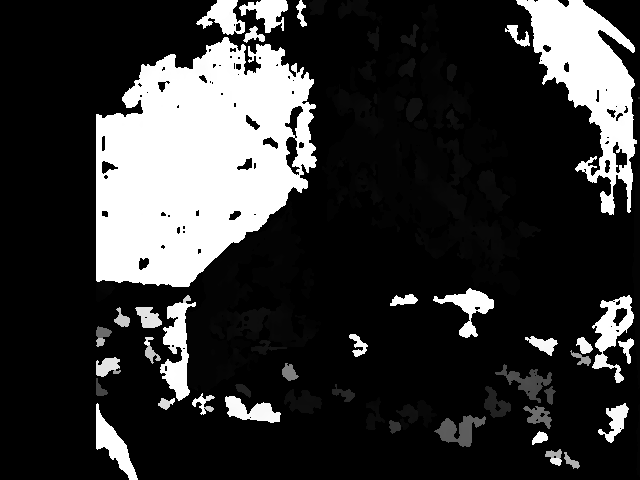
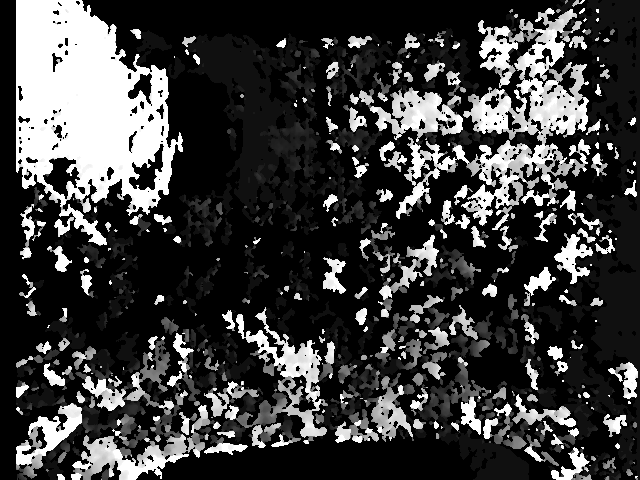
Stereo calibration updates

diff --git a/calibration/calibrator.cc b/calibration/calibrator.cc
@@ -4,6 +4,7 @@
 #include "glog/logging.h"
 #include "opencv2/imgproc.hpp"
 #include "proto_utils.h"
+#include "status_macros.h"
 
 namespace sfx {
 
@@ -31,26 +32,22 @@ static std::vector<std::vector<cv::Point3f>> GenerateObjectPoints(
   return result;
 }
 
-absl::StatusOr<IntrinsicCalibration> CalibrateFromMat(const cv::Mat& image) {
-  std::vector<cv::Point2f> corners;
-  if (!ChessboardFound(image, corners)) {
-    return absl::InternalError("Chessboard not found.");
-  }
-
-  std::vector<std::vector<cv::Point2f>> image_points;
-
-  cv::cornerSubPix(
-      image, corners, cv::Size(11, 11), cv::Size(-1, -1),
-      cv::TermCriteria(cv::TermCriteria::EPS + cv::TermCriteria::MAX_ITER, 30,
-                       0.1));
-  image_points.push_back(corners);
+absl::StatusOr<IntrinsicCalibration> CalibrateFromInput(
+    const std::vector<CalibrationInput>& input) {
+  CHECK(!input.empty());
+  const auto image_size = cv::Size(input[0].image.size());
 
   IntrinsicCalibration intrinsic_calibration;
   cv::Mat camera_matrix;
   cv::Mat distortions;
 
+  std::vector<std::vector<cv::Point2f>> image_points;
+  for (const auto& data : input) {
+    image_points.emplace_back(data.corners);
+  }
+
   const double reprojection_error = cv::calibrateCamera(
-      GenerateObjectPoints(), image_points, image.size(),
+      GenerateObjectPoints(input.size()), image_points, image_size,
       intrinsic_calibration.camera_matrix,
       intrinsic_calibration.distortion_params, cv::noArray(), cv::noArray());
   intrinsic_calibration.reprojection_error = reprojection_error;
@@ -65,29 +62,31 @@ absl::StatusOr<proto::IntrinsicCalibration> CalibrateFromVideo(
         absl::StrFormat("Failed to open camera: '%i'.", camera_id));
   }
 
-  constexpr int32_t kNumberOfFrames = 10;
+  constexpr int32_t kNumberOfFrames = 50;
+  auto valid_frames = std::vector<CalibrationInput>(kNumberOfFrames);
   int32_t number_of_frames = 0;
   cv::Mat frame;
-  absl::StatusOr<IntrinsicCalibration> intrinsic_calibration;
 
-  while (capture.read(frame) && number_of_frames < kNumberOfFrames &&
-         !intrinsic_calibration.ok()) {
+  // Get valid image points
+  while (capture.read(frame) && number_of_frames < kNumberOfFrames) {
     cv::Mat gray;
     cv::cvtColor(frame, gray, cv::COLOR_BGR2GRAY);
-    intrinsic_calibration = CalibrateFromMat(gray);
-    ++number_of_frames;
+    std::vector<cv::Point2f> image_points;
+    if (ChessboardFound(gray, image_points)) {
+      CalibrationInput input{.image = gray, .corners = image_points};
+      valid_frames[number_of_frames] = input;
+      ++number_of_frames;
+    }
   }
-  if (!intrinsic_calibration.ok()) {
-    return absl::InternalError(absl::StrFormat(
-        "Could not calibrate after %i frames - %s.", kNumberOfFrames,
-        intrinsic_calibration.status().message()));
-  }
-
-  return (ConvertIntrinsicCalibrationToProto(intrinsic_calibration.value()));
+  ASSIGN_OR_RETURN(auto intrinsic_calibration,
+                   CalibrateFromInput(valid_frames));
+  return (ConvertIntrinsicCalibrationToProto(intrinsic_calibration));
 }
 
-absl::StatusOr<StereoCalibration> StereoCalibrateFromMat(
-    const std::vector<CalibrationPairs>& pairs) {
+absl::StatusOr<StereoCalibration> CalibrateFromPairs(
+    const std::vector<CalibrationPairs>& pairs,
+    const IntrinsicCalibration& left_intrinsic,
+    const IntrinsicCalibration& right_intrinsic) {
   CHECK(!pairs.empty());
   const auto image_size = cv::Size(pairs[0].left_frame.size());
 
@@ -101,11 +100,15 @@ absl::StatusOr<StereoCalibration> StereoCalibrateFromMat(
   const std::vector<std::vector<cv::Point3f>> object_points =
       GenerateObjectPoints(pairs.size());
 
-  // The default is cv::CALIB_FIX_INTRINSIC, which is NOT we want
-  // It tells to compute intrinsic from scratch.
-  constexpr int32_t flags = 0;
+  // Copy intrinsic so that cv::StereoCalibrate can fix them.
+  constexpr int32_t stereo_flags = cv::CALIB_FIX_INTRINSIC;
 
   StereoCalibration stereo_calibration;
+  stereo_calibration.left_camera_matrix = left_intrinsic.camera_matrix;
+  stereo_calibration.left_distortion_params = left_intrinsic.distortion_params;
+  stereo_calibration.right_camera_matrix = right_intrinsic.camera_matrix;
+  stereo_calibration.right_distortion_params =
+      right_intrinsic.distortion_params;
   stereo_calibration.reprojection_error = cv::stereoCalibrate(
       object_points, left_image_points, right_image_points,
       stereo_calibration.left_camera_matrix,
@@ -113,7 +116,7 @@ absl::StatusOr<StereoCalibration> StereoCalibrateFromMat(
       stereo_calibration.right_camera_matrix,
       stereo_calibration.right_distortion_params, image_size,
       stereo_calibration.R, stereo_calibration.T, stereo_calibration.E,
-      stereo_calibration.F, flags);
+      stereo_calibration.F, stereo_flags);
 
   if (stereo_calibration.left_camera_matrix.at<double>(0, 0) == 1.) {
     return absl::InternalError("No intrinsic calibration found.");
@@ -122,7 +125,9 @@ absl::StatusOr<StereoCalibration> StereoCalibrateFromMat(
 }
 
 absl::StatusOr<proto::StereoCalibration> StereoCalibrationFromVideo(
-    int32_t left_camera_id, int32_t right_camera_id) {
+    int32_t left_camera_id, int32_t right_camera_id,
+    const IntrinsicCalibration& left_intrinsic,
+    const IntrinsicCalibration& right_intrinsic) {
   cv::VideoCapture left_cam(left_camera_id);
   if (!left_cam.isOpened()) {
     return absl::NotFoundError(
@@ -136,7 +141,7 @@ absl::StatusOr<proto::StereoCalibration> StereoCalibrationFromVideo(
   }
 
   // Get valid frames in both cameras
-  constexpr int32_t kNumberOfFrames = 50;
+  constexpr int32_t kNumberOfFrames = 1;
   auto valid_frames = std::vector<CalibrationPairs>(kNumberOfFrames);
 
   int32_t number_of_frames = 0;
@@ -166,7 +171,8 @@ absl::StatusOr<proto::StereoCalibration> StereoCalibrationFromVideo(
       ++number_of_frames;
     }
   }
-  stereo_calibration = StereoCalibrateFromMat(valid_frames);
+  stereo_calibration =
+      CalibrateFromPairs(valid_frames, left_intrinsic, right_intrinsic);
   if (!stereo_calibration.ok()) {
     return absl::InternalError(absl::StrFormat(
         "Could not calibrate - %s.", stereo_calibration.status().message()));

diff --git a/stereo_vision/rectification.cc b/stereo_vision/rectification.cc
@@ -7,28 +7,20 @@ namespace sfx {
 absl::Status Rectify(const cv::Mat& left_image_input,
                      const cv::Mat& right_image_input,
                      const StereoCalibration& stereo_calibration) {
+  // Left and right images are mutable and will be remaped.
   cv::Mat left_image = left_image_input;
   cv::Mat right_image = right_image_input;
   cv::Mat R1;
   cv::Mat R2;
   cv::Mat P1;
   cv::Mat P2;
-  if (left_image.size() != right_image.size()) {
-    if (left_image.size() != right_image.size()) {
-      cv::resize(right_image, right_image, left_image.size(),
-                 /*fx=*/0, /*fy=*/0, cv::INTER_LINEAR);
-    }
-  }
   const auto image_size = cv::Size(left_image.size());
-
   cv::stereoRectify(stereo_calibration.left_camera_matrix,
                     stereo_calibration.left_distortion_params,
                     stereo_calibration.right_camera_matrix,
                     stereo_calibration.right_distortion_params, image_size,
                     stereo_calibration.R, stereo_calibration.T, R1, R2, P1, P2,
-                    cv::noArray(), 0);
-  const bool is_vertical =
-      std::abs(P2.at<double>(1, 3)) > std::abs(P2.at<double>(0, 3));
+                    /*Q=*/cv::noArray());
 
   // Precompute maps for cv::remap()
   cv::Mat map11;
@@ -57,13 +49,12 @@ absl::Status Rectify(const cv::Mat& left_image_input,
 
   // Get disparity
   cv::Ptr<cv::StereoSGBM> stereo = cv::StereoSGBM::create(
-    0,                   // minDisparity
-    96,                  // numDisparities
-    11,                  // blockSize
-    8 * 11 * 11,         // P1
-    32 * 11 * 11,        // P2
-    1, 10, 10, 100, 32,
-    cv::StereoSGBM::MODE_HH);
+      0,           // minDisparity
+      16,          // numDisparities - must be divisible by 16; ~2x expected
+      5,           // blockSize - smaller for low-baseline
+      8 * 5 * 5,   // P1
+      32 * 5 * 5,  // P2
+      1, 10, 10, 100, 32, cv::StereoSGBM::MODE_HH);
   cv::Mat disparity;
   stereo->compute(left_image_rectified, right_image_rectified, disparity);
   cv::Mat visual_disparity;

diff --git a/calibration/stereo_calibrator_cli.cc b/calibration/stereo_calibrator_cli.cc
@@ -9,15 +9,32 @@
 
 ABSL_FLAG(int32_t, left_camera_id, 0, "Left camera USB id.");
 ABSL_FLAG(int32_t, right_camera_id, 2, "Right camera USB id.");
+ABSL_FLAG(std::string, left_intrinsic, "testdata/intinsic_calibration.txtpb",
+          "Left camera intrinsic");
+ABSL_FLAG(std::string, right_intrinsic, "testdata/intinsic_calibration.txtpb",
+          "Left camera intrinsic");
 ABSL_FLAG(std::string, output_calibration_proto,
           "/tmp/stereo_calibration.txtpb",
           "Output path for the stereo calibration");
 
 absl::Status Run() {
+  ASSIGN_OR_RETURN(auto left_proto_intrinsic,
+                   sfx::LoadFromTextProtoFile<sfx::proto::IntrinsicCalibration>(
+                       absl::GetFlag(FLAGS_left_intrinsic)));
+  ASSIGN_OR_RETURN(auto right_proto_intrinsic,
+                   sfx::LoadFromTextProtoFile<sfx::proto::IntrinsicCalibration>(
+                       absl::GetFlag(FLAGS_right_intrinsic)));
+  sfx::IntrinsicCalibration left_intrinsic =
+      sfx::ConvertIntrinsicCalibrationFromProto(left_proto_intrinsic);
+      sfx::ConvertIntrinsicCalibrationFromProto(left_proto_intrinsic);
+  sfx::IntrinsicCalibration right_intrinsic =
+      sfx::ConvertIntrinsicCalibrationFromProto(right_proto_intrinsic);
+
   ASSIGN_OR_RETURN(
       auto proto_calibration,
       sfx::StereoCalibrationFromVideo(absl::GetFlag(FLAGS_left_camera_id),
-                                      absl::GetFlag(FLAGS_right_camera_id)));
+                                      absl::GetFlag(FLAGS_right_camera_id),
+                                      left_intrinsic, right_intrinsic));
   RETURN_IF_ERROR(sfx::WriteProtoToTextProto(
       proto_calibration, absl::GetFlag(FLAGS_output_calibration_proto)));
   LOG(INFO) << absl::StreamFormat(

diff --git a/calibration/proto_utils.cc b/calibration/proto_utils.cc
@@ -48,6 +48,23 @@ IntrinsicCalibration ConvertIntrinsicCalibrationFromProto(
   result.camera_matrix.at<double>(1, 1) = proto.camera_matrix().fy();
   result.camera_matrix.at<double>(0, 2) = proto.camera_matrix().cx();
   result.camera_matrix.at<double>(1, 2) = proto.camera_matrix().cy();
+
+  constexpr int32_t kNumDistortionParams = 5;
+  result.distortion_params = cv::Mat::zeros(1, kNumDistortionParams, CV_64F);
+  result.distortion_params.at<double>(0, 0) =
+      proto.distortion_parameters().k1();
+  result.distortion_params.at<double>(0, 1) =
+      proto.distortion_parameters().k2();
+  result.distortion_params.at<double>(0, 2) =
+      proto.distortion_parameters().k3();
+  if (proto.distortion_parameters().has_k4()) {
+    result.distortion_params.at<double>(0, 3) =
+        proto.distortion_parameters().k4();
+  }
+  if (proto.distortion_parameters().has_k5()) {
+    result.distortion_params.at<double>(0, 4) =
+        proto.distortion_parameters().k5();
+  }
   result.reprojection_error = proto.reprojection_error();
   return result;
 }

diff --git a/calibration/calibrator.h b/calibration/calibrator.h
@@ -2,7 +2,7 @@
 #define SFX_T_CALIBRATOR_H
 
 #include "absl/status/statusor.h"
-#include "calibration/intrinsic_calibration.pb.h"
+#include "calibration/intrinsic_calibration.h"
 #include "calibration/stereo_calibration.pb.h"
 
 namespace sfx {
@@ -12,9 +12,11 @@ absl::StatusOr<proto::IntrinsicCalibration> CalibrateFromVideo(
     int32_t camera_id);
 
 // Looks for a chessboard that can be seen from both cameras and tries to
-// calibrate. Without intrinsic guesses, calibration may not always work.
+// calibrate and fixing intrinsic eguesses.
 absl::StatusOr<proto::StereoCalibration> StereoCalibrationFromVideo(
-    int32_t left_camera_id, int32_t right_camera_id);
+    int32_t left_camera_id, int32_t right_camera_id,
+    const IntrinsicCalibration& left_intrinsic,
+    const IntrinsicCalibration& right_intrinsic);
 
 }  // namespace sfx
 

diff --git a/calibration/intrinsic_calibration.h b/calibration/intrinsic_calibration.h
@@ -11,6 +11,12 @@ struct IntrinsicCalibration {
   double reprojection_error = 0;
 };
 
+// Input of calibration
+struct CalibrationInput {
+  cv::Mat image; // Chessboard
+  std::vector<cv::Point2f> corners; // detected corners
+};
+
 } // namespace sfx
 
 
